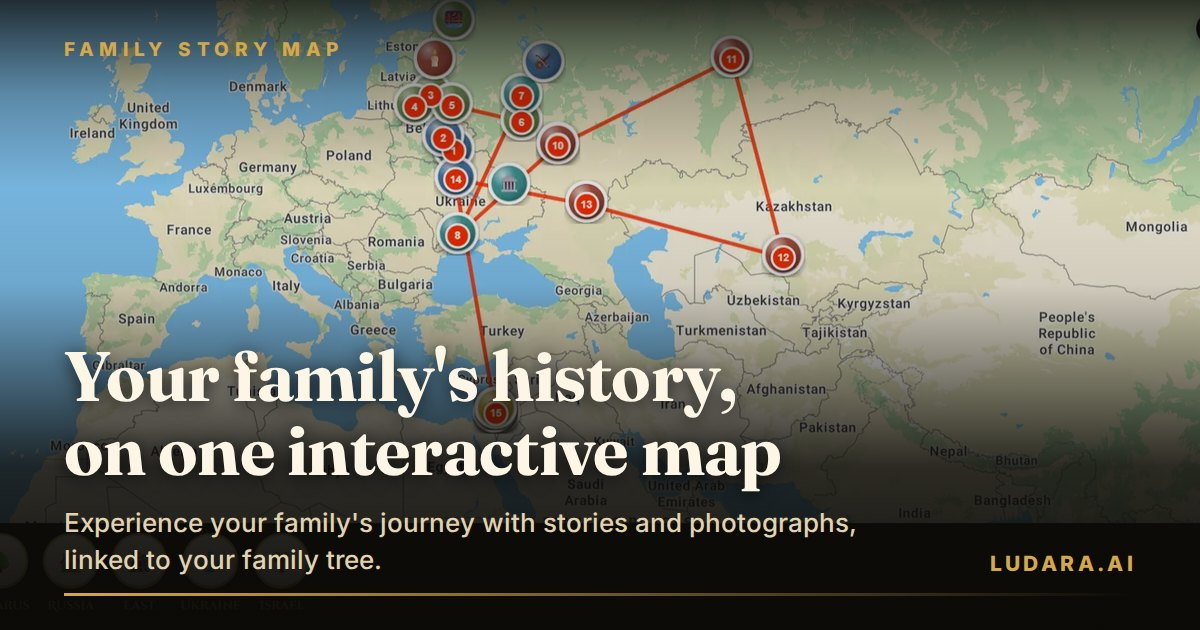
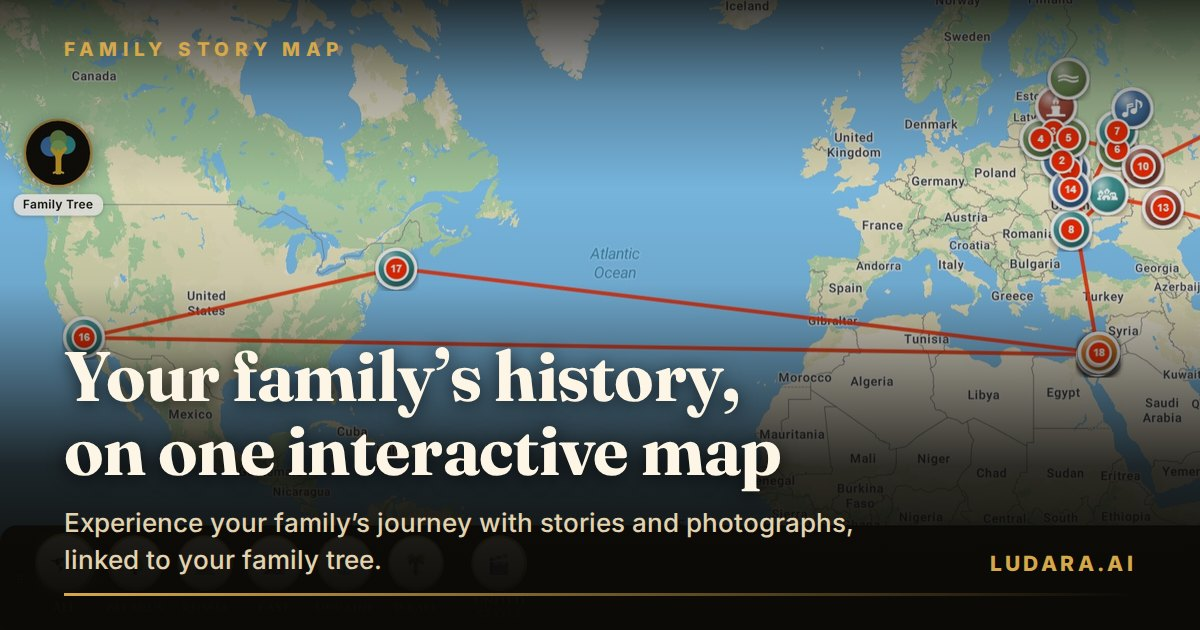
Update site 09/08/2026 11:17:34.88

diff --git a/familystorymap/index.html b/familystorymap/index.html
@@ -292,8 +292,8 @@
       </div>
       <p class="hero-note">This one is our own family&rsquo;s map. We published it on purpose, so you can see exactly what you would be getting. Yours stays private unless you tell us otherwise.</p>
 
-      <div class="shot-frame"><img class="hero-shot" src="../assets/fsm-map-hero.webp" alt="The whole family map: a numbered path from Belarus and Lithuania through Russia and Ukraine down to Israel, every place also listed down the side with its portrait and its dates, and region filters along the bottom" fetchpriority="high"/></div>
-      <p class="hero-disc">Above: the first Family Story Map, built from one family&rsquo;s memoir. One tap numbers the stops in the order they happened, from Bobruisk and Vitebsk out to the Urals and Kazakhstan, and home to Rehovot. Every place is listed down the side with its portrait and its dates, every pin opens into its photograph and its story, and the regions along the bottom filter the map to one chapter at a time.</p>
+      <div class="shot-frame"><img class="hero-shot" src="../assets/fsm-map-hero-v2.webp" alt="The whole family map with the journey drawn: numbered stops running from Belarus and Lithuania through Russia, Kazakhstan and Ukraine to Israel, then across the Atlantic to Los Angeles and Boston, with region filters for Belarus, Russia, East, Ukraine, Israel and the United States along the bottom" fetchpriority="high"/></div>
+      <p class="hero-disc">Above: the first Family Story Map, built from one family&rsquo;s memoir. One tap numbers the stops in the order they happened, from Bobruisk and Vitebsk out to the Urals and Kazakhstan, on to Los Angeles and Boston, and home to Israel. Every place is listed down the side with its portrait and its dates, every pin opens into its photograph and its story, and the regions along the bottom filter the map to one chapter at a time.</p>
     </div>
   </div>
 </section>
